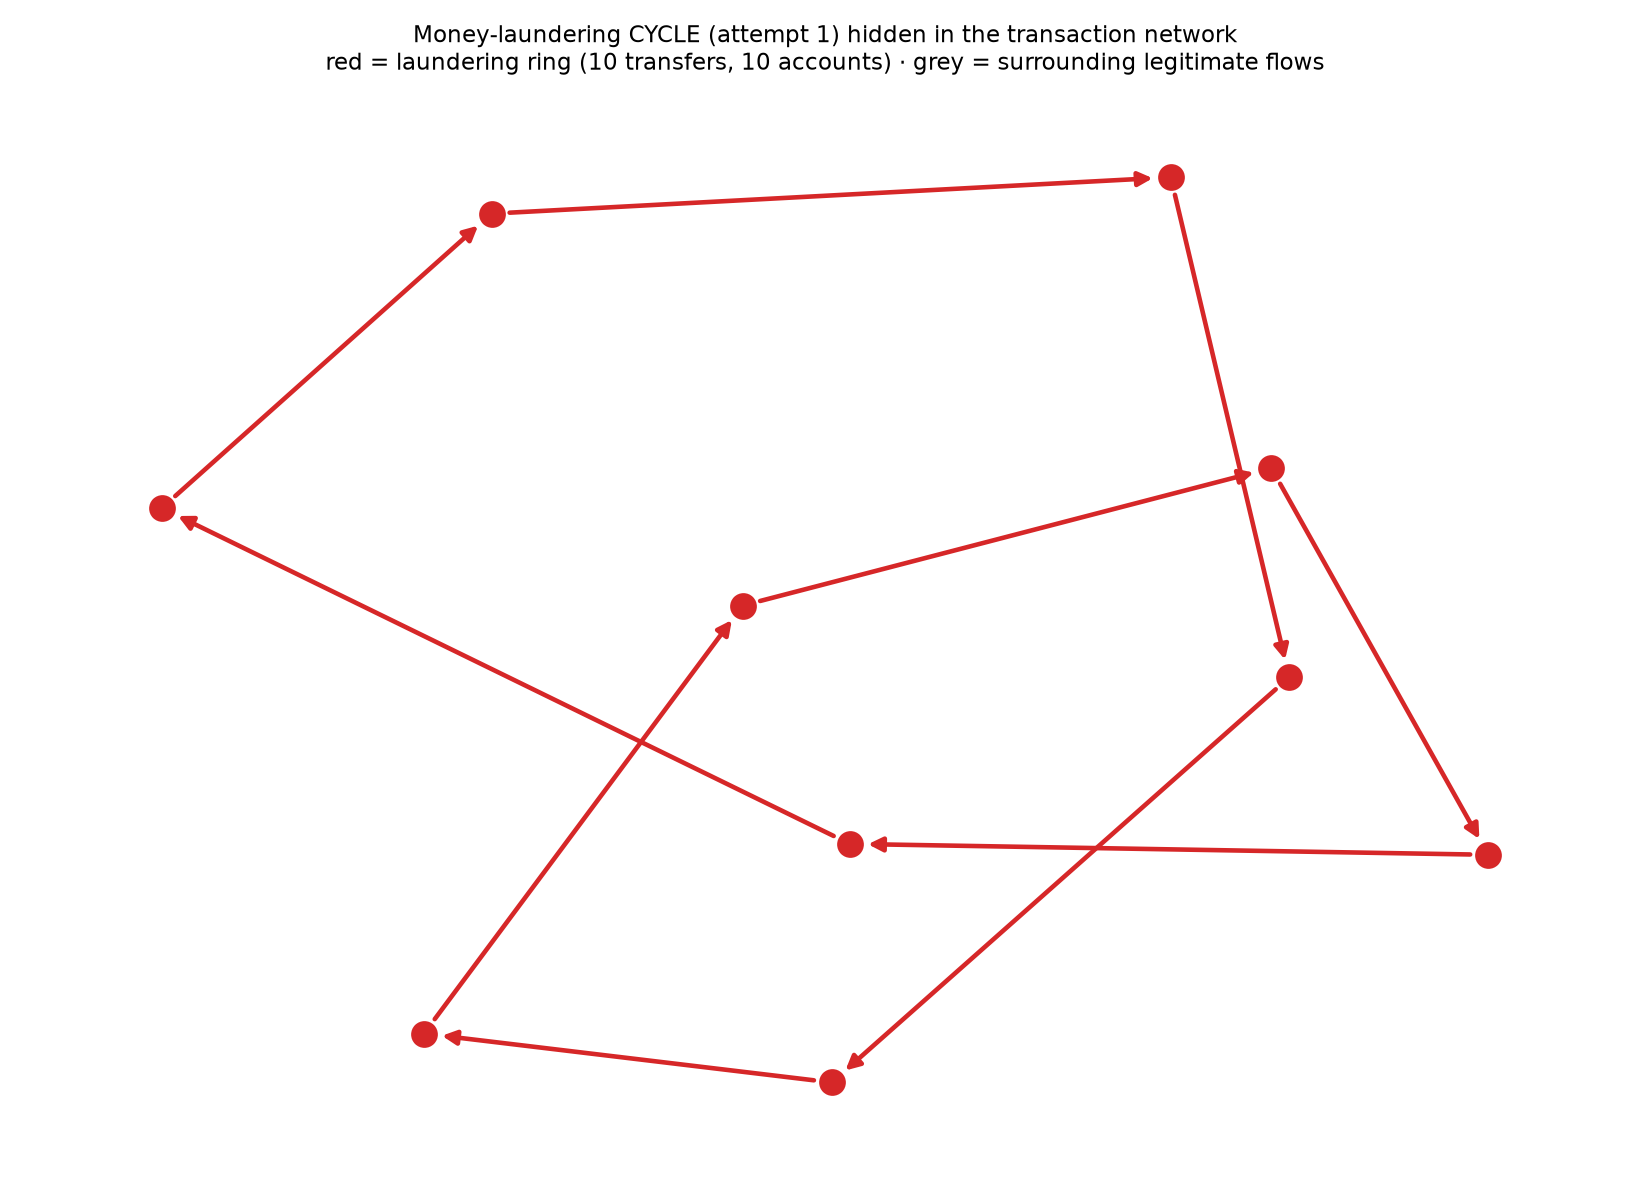
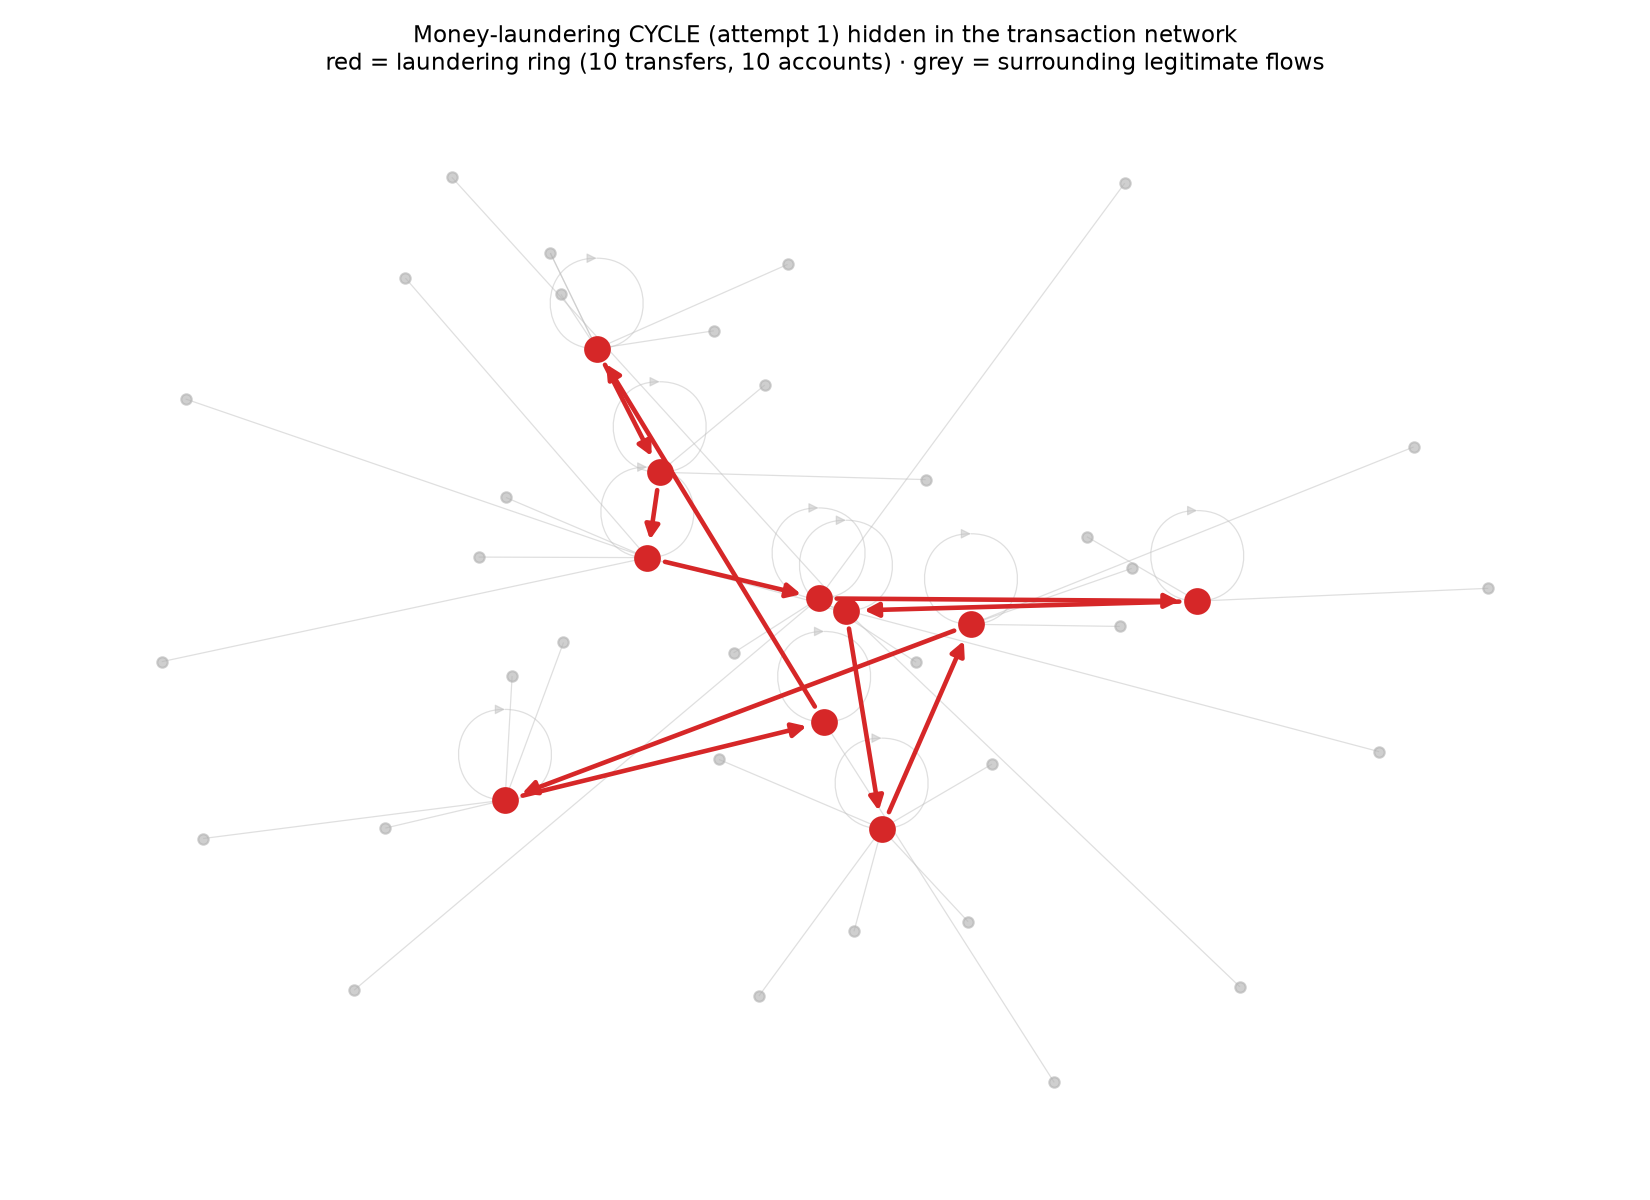
Fix bank-ID normalization: pattern ground truth now joins transactions (3170/3170 nodes)

diff --git a/scripts/build_graph.py b/scripts/build_graph.py
@@ -37,6 +37,12 @@ trans["timestamp"] = pd.to_datetime(trans["timestamp"],
                                     format="%Y/%m/%d %H:%M")
 
 # Composite node ids (bank + account)
+def norm_bank(s: pd.Series) -> pd.Series:
+    out = s.str.lstrip("0")
+    return out.where(out != "", "0")
+
+trans["from_bank"] = norm_bank(trans["from_bank"])
+trans["to_bank"] = norm_bank(trans["to_bank"])
 trans["src"] = trans["from_bank"] + "_" + trans["from_acct"]
 trans["dst"] = trans["to_bank"] + "_" + trans["to_acct"]
 